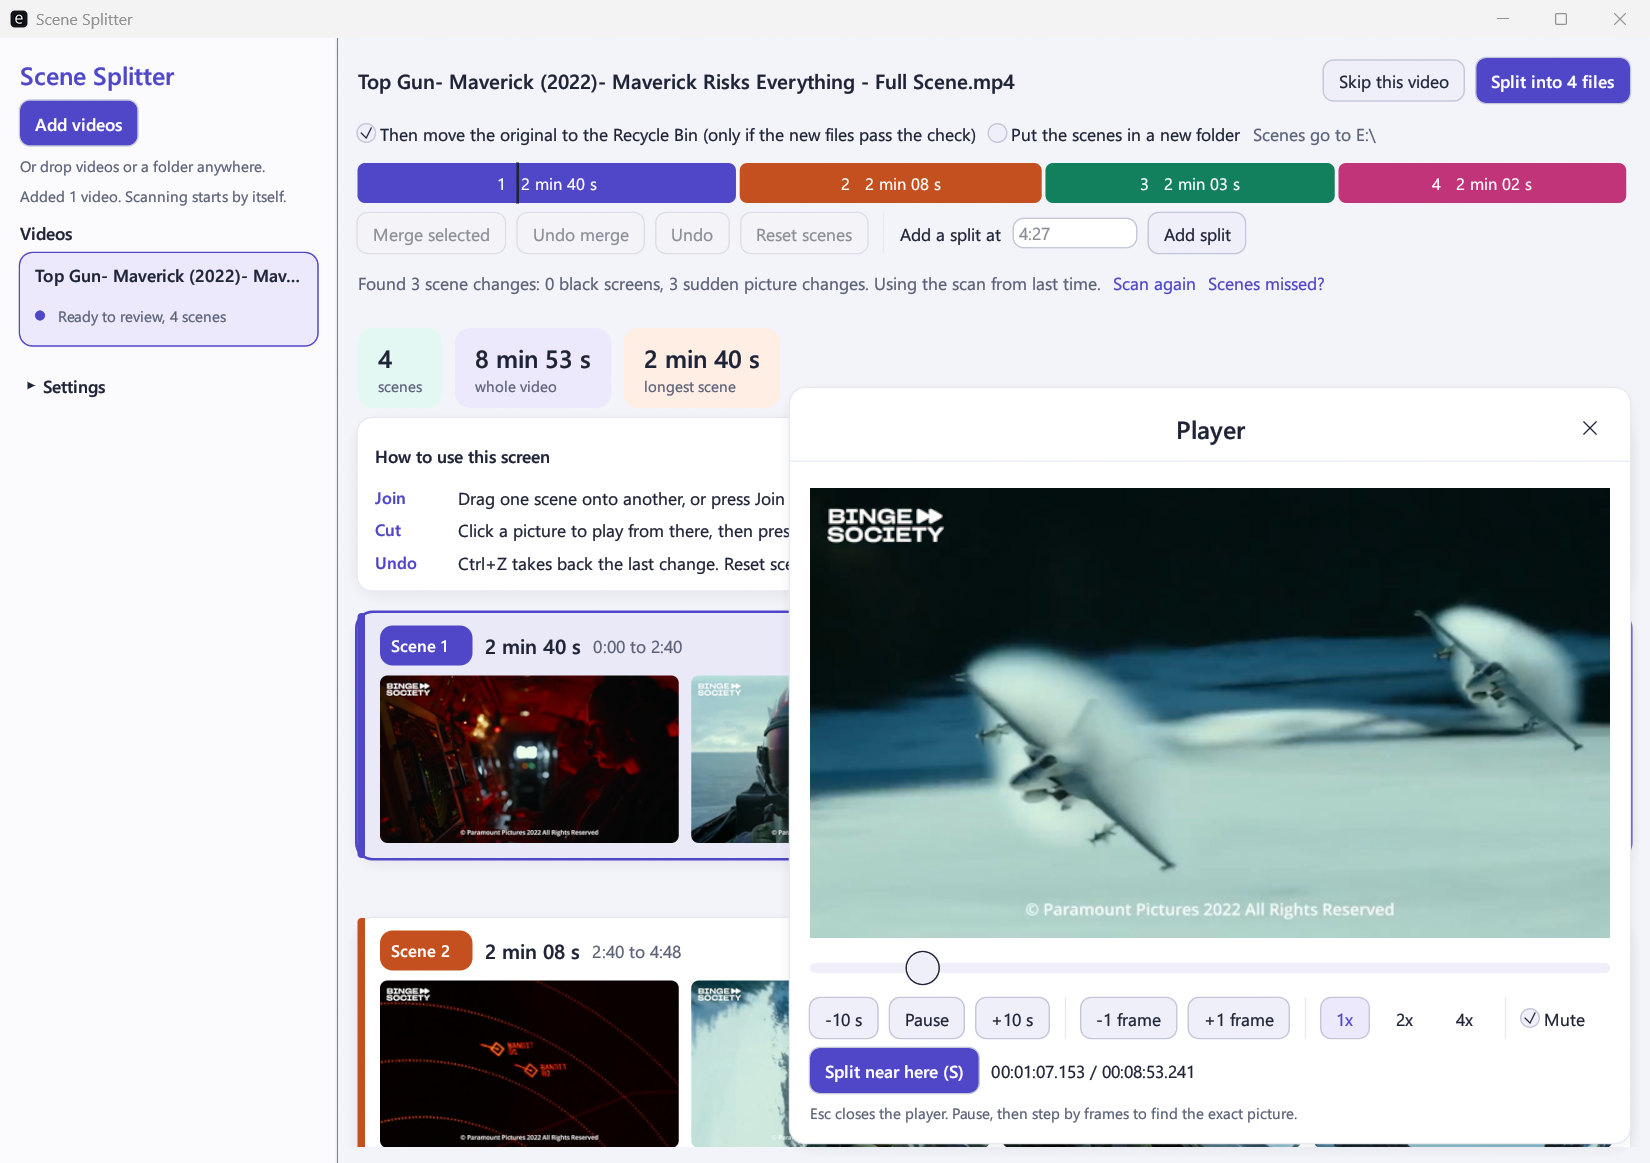
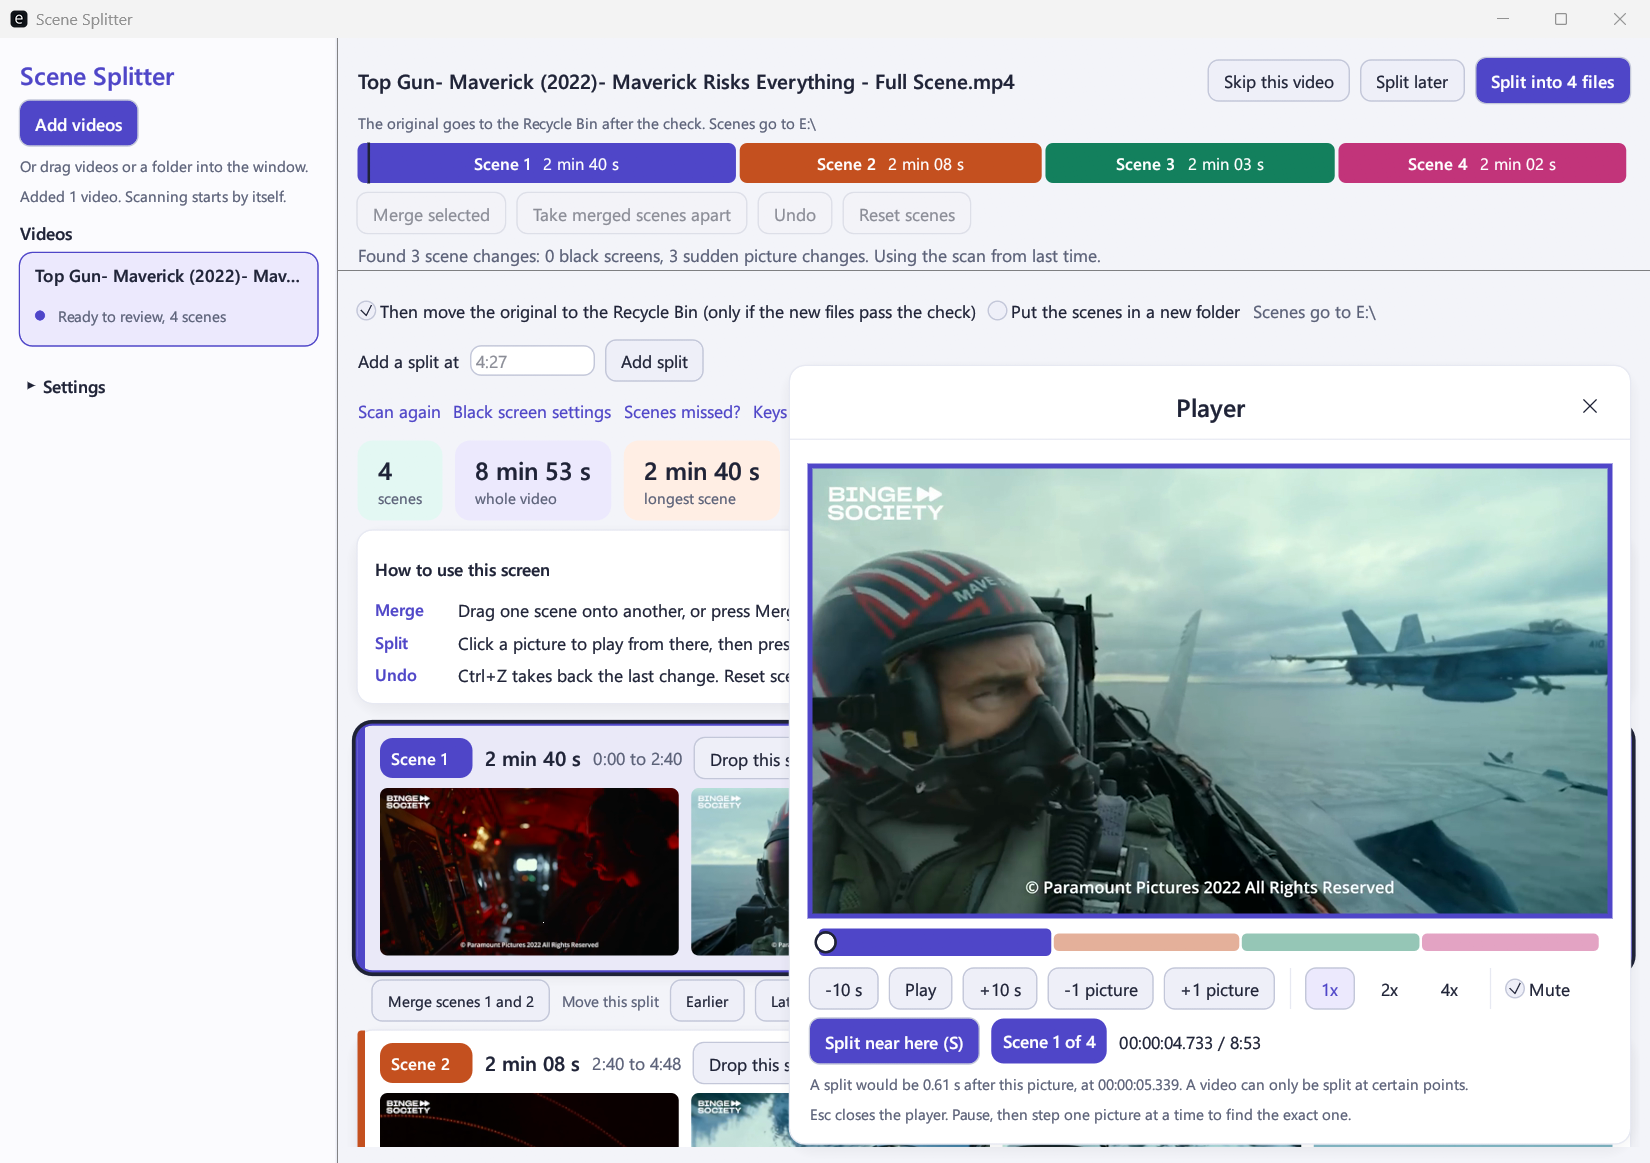
Retake the screenshots, and tidy the player's button row

diff --git a/src/player.rs b/src/player.rs
@@ -86,6 +86,8 @@ const SPLIT_EXACTLY_LABEL: &str = "Split here (S)";
 const SPLIT_EXACTLY_HINT: &str = "Cuts the scene playing now in two, on this picture.";
 /// Room for the two one-picture buttons side by side.
 const PICTURE_STEP_BUTTONS_WIDTH: f32 = 185.0;
+/// Room for the dividing line and the three speeds after it.
+const SPEED_CHOICES_WIDTH: f32 = 150.0;
 const ONE_PICTURE_BACK_LABEL: &str = "-1 picture";
 const ONE_PICTURE_FORWARD_LABEL: &str = "+1 picture";
 const PLAYER_HINT: &str =
@@ -1121,7 +1123,13 @@ impl Player {
                 self.step_frames(1, ui.ctx());
             }
 
-            ui.separator();
+            // A line drawn at the end of a row divides nothing, so the
+            // speeds start the next row without one.
+            if ui.available_size_before_wrap().x < SPEED_CHOICES_WIDTH {
+                ui.end_row();
+            } else {
+                ui.separator();
+            }
             for speed in PlaybackSpeed::ALL {
                 if ui
                     .selectable_label(self.speed == speed, speed.label())
